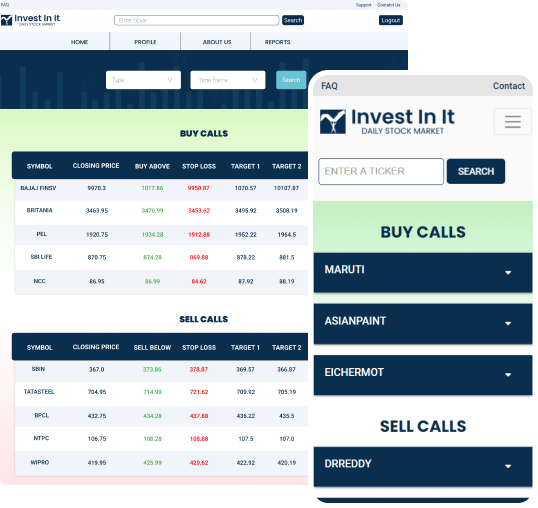
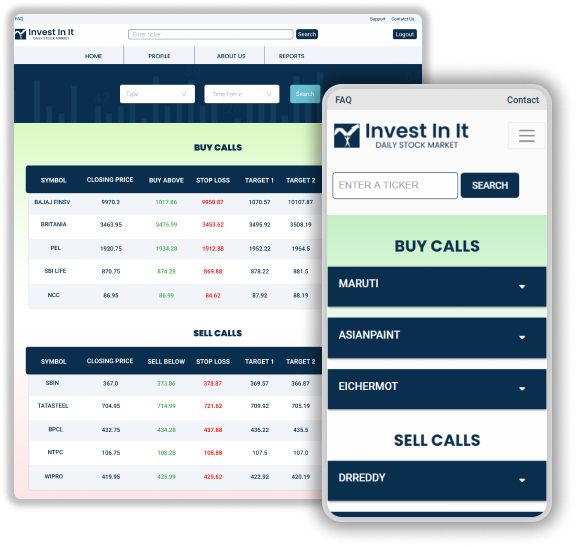
Changed Hero section

diff --git a/static/css/style.css b/static/css/style.css
@@ -455,11 +455,10 @@ table tbody .emptyTable:first-child {
 .hero-wrapper .bar-graph {
   background: var(--primaryColor);
   width: 100%;
-  padding-top: 2rem;
 }
 
 .hero-wrapper .bar-graph img {
-  opacity: 0.5;
+  opacity: 0.3;
   width: 100%;
 }
 

diff --git a/static/css/style.scss b/static/css/style.scss
@@ -332,10 +332,9 @@ table{
     .bar-graph{
         background: var(--primaryColor);
         width: 100%;
-        padding-top: 2rem;
 
         img{
-            opacity: 0.5;
+            opacity: 0.3;
             width: 100%;
         }
     }
